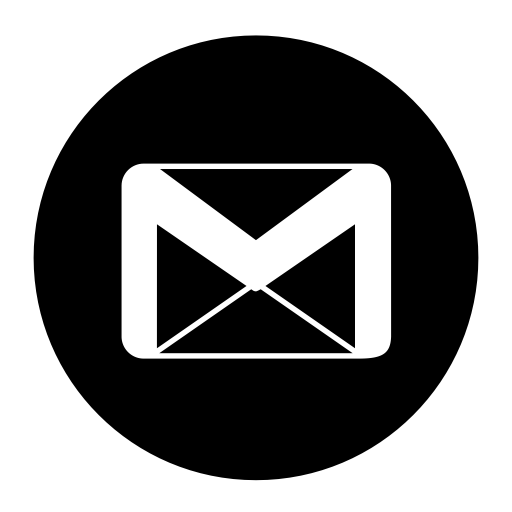
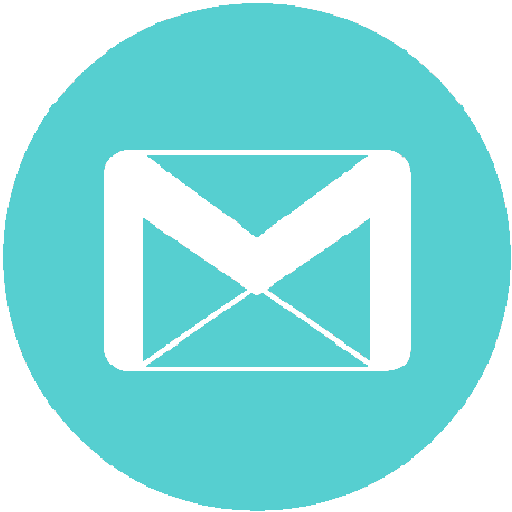
updated contact links and changed boxes for about me

diff --git a/contact.html b/contact.html
@@ -18,7 +18,7 @@
         <div class="link-container">
             <div class="home"><a href="index.html">Home</a></div>
             <div class="about-me"><a href="about.html">About Me</a></div>
-            <div class="resume"><a href="resume.html">Resume</a></div>
+            <div class="resume"><a href="Syoder Resume.pdf">Resume</a></div>
             <div class="portfolio"><a href="portfolio.html">Portfolio</a></div>
         </div>
     </nav>
@@ -26,11 +26,15 @@
     <div class="gradient-fill">
         <div class="overlay-grid"></div>
     </div>
-    <div class="icon linkedin-icon"></div>
-    <div class="icon github-icon"></div>
-    <div class="icon gmail-icon"></div>
-    <div class="icon slack-icon"></div>
-    <div class="icon twitter-icon"></div>
+    
+    <a href="https://www.linkedin.com" target="_blank"><img src="/pictures/linkedin.png" class="icon linkedin-icon"></a>
+    <a href="https://www.github.com/TheSamYoder" target="_blank"><img src="/pictures/gh.png"
+            class="icon github-icon"></a>
+    <a href="mailto:syoder93@gmail.com"><img src="/pictures/gmail.png" class="icon gmail-icon"></a>
+    <a href="https://wecancodeitbootcamp.slack.com/U021307F7PY" target="_blank"><img src="/pictures/slack.png"
+            class="icon slack-icon"></a>
+    <a href="https://www.twitter.com/SamYoderTho" target="_blank"><img src="/pictures/twitter.png"
+            class="icon twitter-icon"></a>
 </body>
 
 </html>

diff --git a/about.css b/about.css
@@ -1,13 +1,14 @@
 .sam-photo {
-    width: 300px;
-    height: 200px;
-    background-image: url(/pictures/Sam\ Buckeye\ Lake.jpg);
+    width: 250px;
+    height: 250px;
+    background-image: url(/pictures/Sam\ Buckeye\ Lake1.jpg);
     position: absolute;
     background-size: cover;
     margin-top: 250px;
-    margin-left: 400px;
+    margin-left: 440px;
     z-index: 3;
     box-shadow: 5px 5px 10px white;
+    border-radius: 50%;
 }
 
 .about {
@@ -15,8 +16,9 @@
     height: 350px;
     margin-top: 275px;
     margin-left: 450px;
-    background-color: #9b06b1;
+    background-color: #67CFD0;
     position: absolute;
+    border-radius: 50%;
 }
 
 p {

diff --git a/about.html b/about.html
@@ -19,7 +19,7 @@
         <div class="link-container">
             <div class="home"><a href="index.html">Home</a></div>
             <div class="portfolio"><a href="portfolio.html">Portfolio</a></div>
-            <div class="resume"><a href="resume.html">Resume</a></div>
+            <div class="resume"><a href="Syoder Resume.pdf">Resume</a></div>
             <div class="contact"><a href="contact.html">Contact</a></div>
         </div>
     </nav>

diff --git a/portfolio.html b/portfolio.html
@@ -17,7 +17,7 @@
         <div class="link-container">
             <div class="home"><a href="index.html">Home</a></div>
             <div class="about-me"><a href="about.html">About Me</a></div>
-            <div class="resume"><a href="resume.html">Resume</a></div>
+            <div class="resume"><a href="Syoder Resume.pdf">Resume</a></div>
             <div class="contact"><a href="contact.html">Contact</a></div>
         </div>
     </nav>

diff --git a/contact.css b/contact.css
@@ -3,12 +3,22 @@
     height: 170px;
     position: absolute;
     background-size: cover;
+    border-radius: 50%;
+    box-shadow: 0 0 10px white;
+    z-index: 3;
+}
+
+.icon:hover {
+    transform: scale(1.1);
+}
+
+.icon:active {
+    transform: scale(.9);
 }
 
 .linkedin-icon {
     margin-top: 100px;
     margin-left: 450px;
-    background-image: url("./pictures/linkedin.png");
 }
 
 .github-icon {

diff --git a/in-page-nav.css b/in-page-nav.css
@@ -40,7 +40,7 @@ a:link, a:visited, a:active {
 }
 
 .container{
-    background-image: url("Plam\ Trees.png");
+    background-image: url("pictures/Plam\ Trees.png");
     width: 100vw;
     height: 100vh;
     position: absolute;
